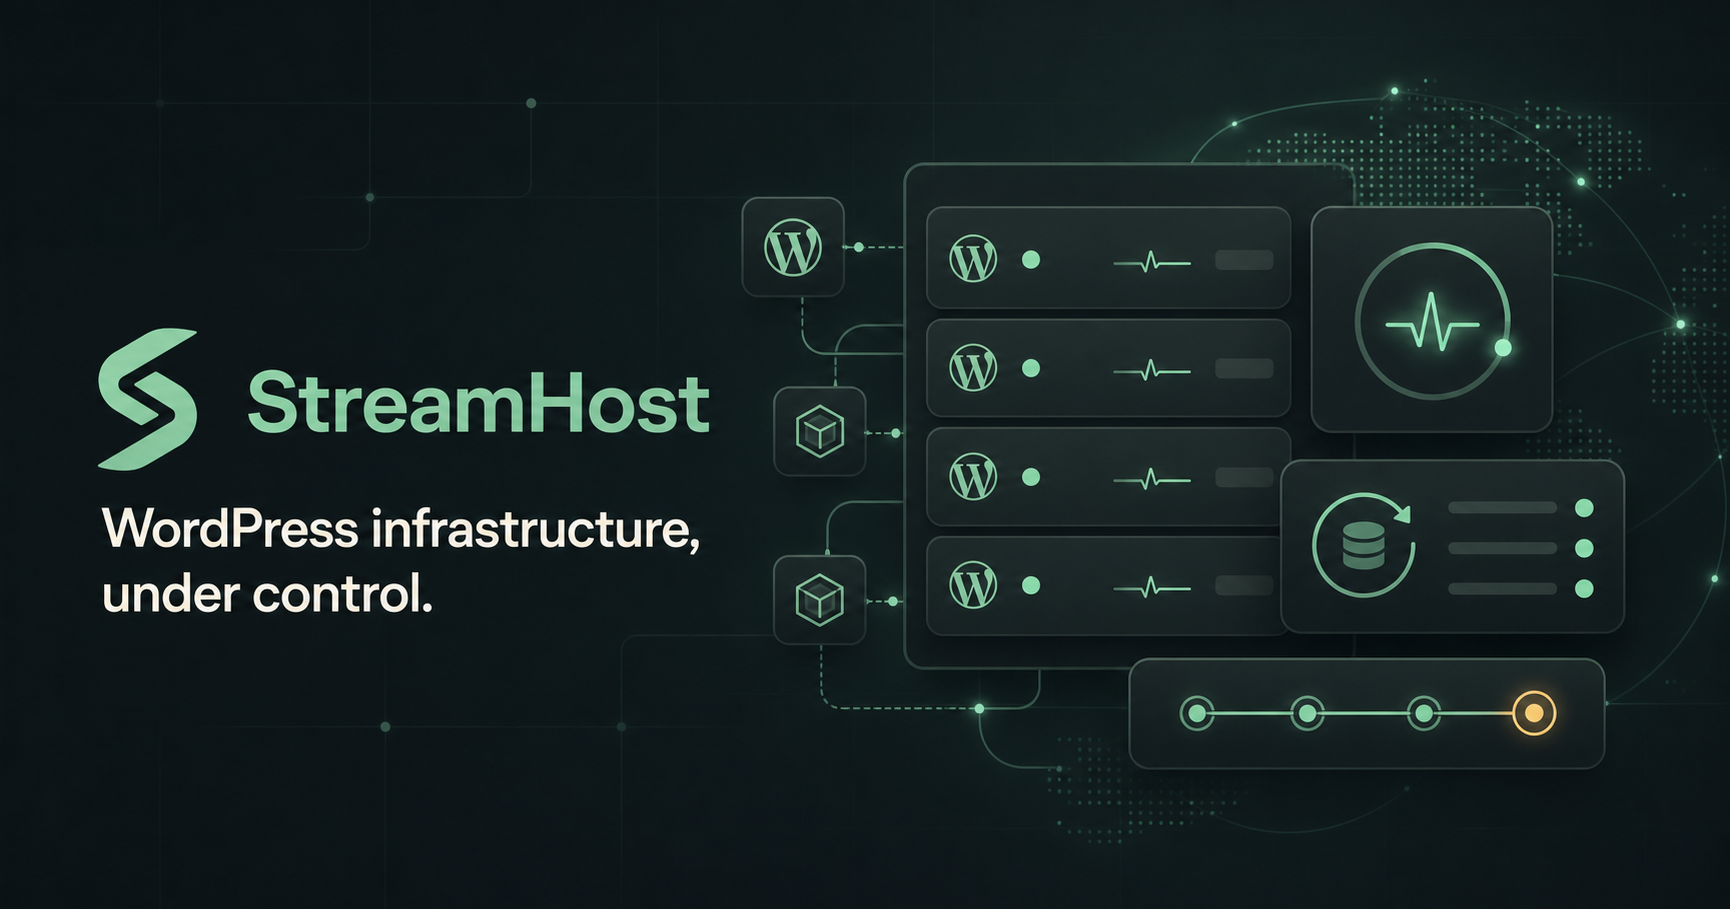
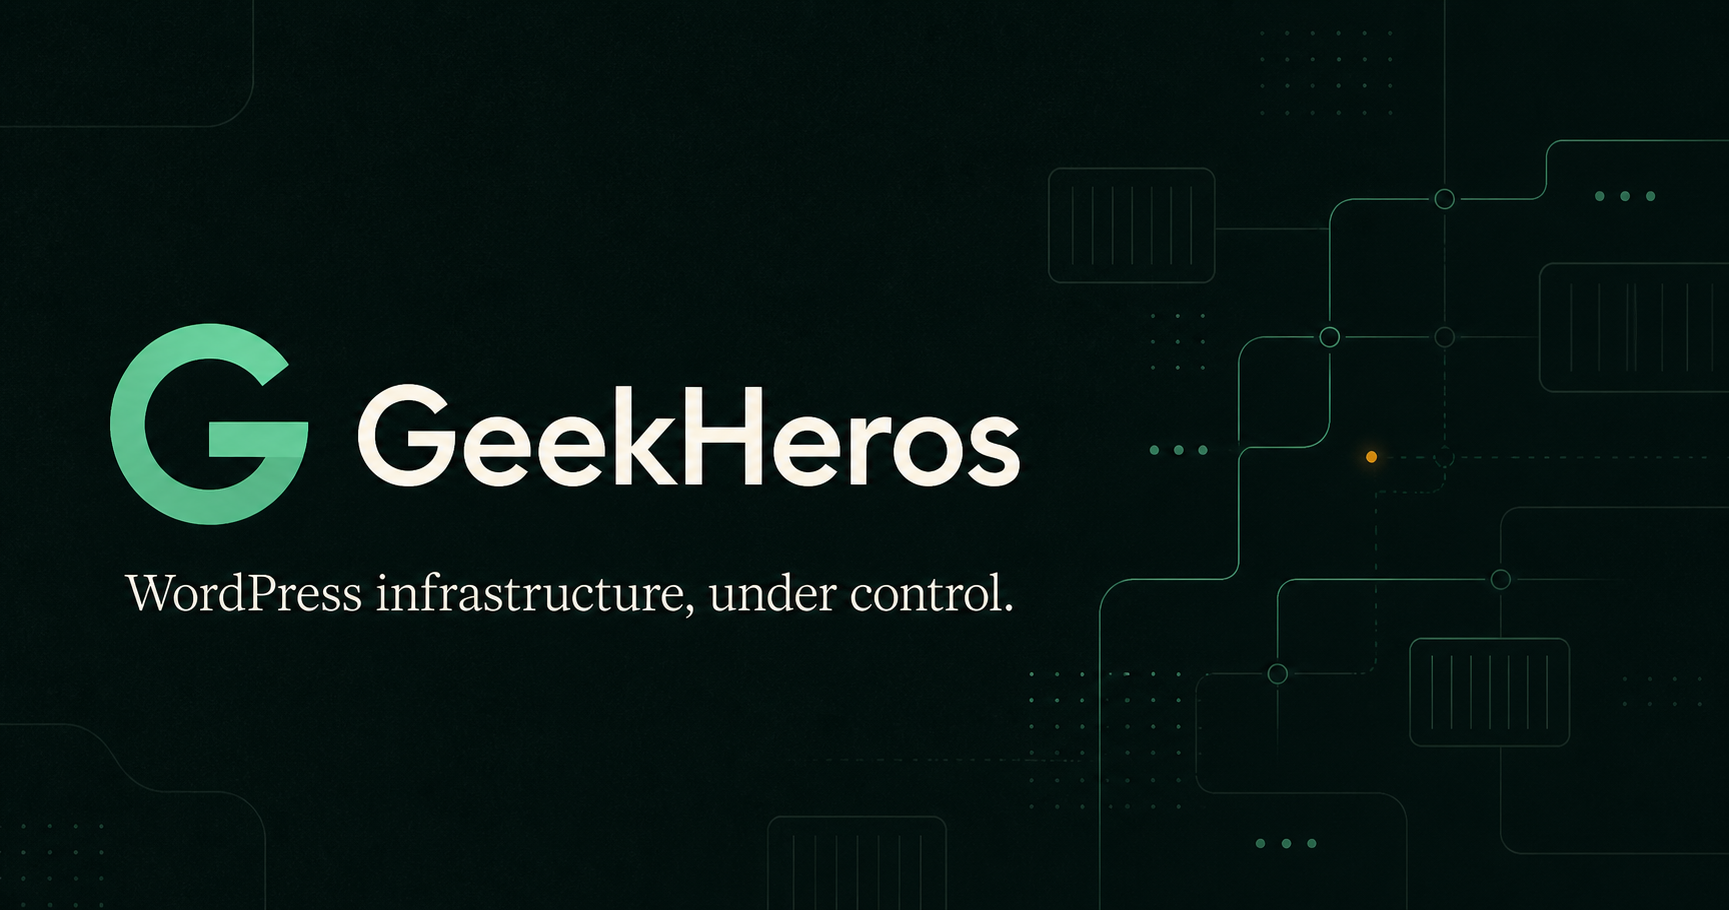
Rebrand control plane as GeekHeros

diff --git a/app/page.tsx b/app/page.tsx
@@ -105,9 +105,9 @@ export default function Home() {
   return (
     <main className="app-shell">
       <aside className="sidebar">
-        <button className="brand" onClick={() => navigate('Overview')}><span className="brand-mark">S</span><span>StreamHost</span></button>
+        <button className="brand" onClick={() => navigate('Overview')}><span className="brand-mark">G</span><span>GeekHeros</span></button>
         <button className="workspace-switcher">
-          <span className="workspace-avatar">SH</span><span className="workspace-copy"><strong>StreamHost Pro</strong><small>Business workspace</small></span><span className="chevron">⌄</span>
+          <span className="workspace-avatar">GH</span><span className="workspace-copy"><strong>GeekHeros</strong><small>Business workspace</small></span><span className="chevron">⌄</span>
         </button>
         <nav aria-label="Primary navigation">
           {nav.map((group) => <div key={group.label}>{group.label && <p className="nav-label">{group.label}</p>}{group.items.map((item) => <button key={item.view} onClick={() => navigate(item.view)} className={`nav-item ${view === item.view && !selectedSite ? 'active' : ''}`}><span>{item.symbol}</span>{item.view}{item.badge && (item.view === 'Updates' ? <b>{item.badge}</b> : <em>{item.badge}</em>)}</button>)}</div>)}
@@ -207,7 +207,7 @@ function ClientsView({ onToast }: { onToast: (message: string) => void }) {
 
 function SettingsView({ onToast }: { onToast: (message: string) => void }) {
   const [slack, setSlack] = useState(true); const [backups, setBackups] = useState(true); const [security, setSecurity] = useState(true);
-  return <><PageHeading eyebrow="WORKSPACE" title="Settings" description="Infrastructure defaults, notifications and team access." actions={<button className="primary-button" onClick={() => onToast('Workspace settings saved.')}><span>✓</span>Save changes</button>} /><div className="settings-layout"><aside className="settings-nav"><button className="selected">Workspace</button><button>Deployment defaults</button><button>Backup policy</button><button>Notifications</button><button>Team & access</button><button>API tokens</button></aside><section className="settings-main"><div className="settings-section"><div><h2>Workspace profile</h2><p>Used throughout reports and operational notifications.</p></div><div className="form-grid"><label>Workspace name<input defaultValue="StreamHost Pro" /></label><label>Business URL<input defaultValue="https://streamhostpro.net" /></label><label className="full-field">Default deployment domain<input defaultValue="sites.streamhostpro.net" /></label></div></div><div className="settings-section"><div><h2>Operational defaults</h2><p>Applied to newly deployed sites.</p></div><div className="setting-toggle"><span><strong>Encrypted scheduled backups</strong><small>Daily backup to configured S3-compatible storage.</small></span><button className={`switch ${backups ? 'on' : ''}`} onClick={() => setBackups(!backups)}><i /></button></div><div className="setting-toggle"><span><strong>Automated security scans</strong><small>Check inventory and file integrity every 12 hours.</small></span><button className={`switch ${security ? 'on' : ''}`} onClick={() => setSecurity(!security)}><i /></button></div><div className="setting-toggle"><span><strong>Slack operation alerts</strong><small>Send failures and recoveries to the operations channel.</small></span><button className={`switch ${slack ? 'on' : ''}`} onClick={() => setSlack(!slack)}><i /></button></div></div></section></div></>;
+  return <><PageHeading eyebrow="WORKSPACE" title="Settings" description="Infrastructure defaults, notifications and team access." actions={<button className="primary-button" onClick={() => onToast('Workspace settings saved.')}><span>✓</span>Save changes</button>} /><div className="settings-layout"><aside className="settings-nav"><button className="selected">Workspace</button><button>Deployment defaults</button><button>Backup policy</button><button>Notifications</button><button>Team & access</button><button>API tokens</button></aside><section className="settings-main"><div className="settings-section"><div><h2>Workspace profile</h2><p>Used throughout reports and operational notifications.</p></div><div className="form-grid"><label>Workspace name<input defaultValue="GeekHeros" /></label><label>Business URL<input defaultValue="https://geekheros.com" /></label><label className="full-field">Default deployment domain<input defaultValue="sites.geekheros.com" /></label></div></div><div className="settings-section"><div><h2>Operational defaults</h2><p>Applied to newly deployed sites.</p></div><div className="setting-toggle"><span><strong>Encrypted scheduled backups</strong><small>Daily backup to configured S3-compatible storage.</small></span><button className={`switch ${backups ? 'on' : ''}`} onClick={() => setBackups(!backups)}><i /></button></div><div className="setting-toggle"><span><strong>Automated security scans</strong><small>Check inventory and file integrity every 12 hours.</small></span><button className={`switch ${security ? 'on' : ''}`} onClick={() => setSecurity(!security)}><i /></button></div><div className="setting-toggle"><span><strong>Slack operation alerts</strong><small>Send failures and recoveries to the operations channel.</small></span><button className={`switch ${slack ? 'on' : ''}`} onClick={() => setSlack(!slack)}><i /></button></div></div></section></div></>;
 }
 
 function SiteWorkspace({ site, activeTab, onTab, onBack, onOperation, onToast, onDomain }: { site: Site; activeTab: string; onTab: (tab: string) => void; onBack: () => void; onOperation: (site: Site, type: string, message: string) => void; onToast: (message: string) => void; onDomain: () => void }) {
@@ -219,7 +219,7 @@ function SiteOverview({ site, onTab }: { site: Site; onTab: (tab: string) => voi
 
 function SiteWordPress({ site, onToast }: { site: Site; onToast: (message: string) => void }) { const packages = [['Advanced Custom Fields', 'Plugin', 'Active', '6.8.4', '6.8.8'], ['Rank Math SEO', 'Plugin', 'Active', '1.0.272', '1.0.277'], ['WPCode Lite', 'Plugin', 'Active', '2.3.8', 'Current'], ['Twenty Twenty-Five', 'Theme', 'Inactive', '1.3', 'Current']]; return <section className="content-card table-card"><div className="card-title table-title"><div><small>WORDPRESS {site.wp}</small><h2>Plugins & themes</h2></div><div className="heading-actions"><button className="secondary-button" onClick={() => onToast('Package installer opened.')}>Install package</button><button className="primary-button" onClick={() => onToast('Safe update queued with a restore point.')}><span>↻</span>Update all</button></div></div><div className="wp-table"><div className="wp-row wp-head"><span>Package</span><span>Type</span><span>Status</span><span>Installed</span><span>Available</span><span /></div>{packages.map((row) => <div className="wp-row" key={row[0]}><strong>{row[0]}</strong><span>{row[1]}</span><span className={row[2] === 'Active' ? 'verified' : ''}>{row[2]}</span><span>{row[3]}</span><span className={row[4] === 'Current' ? 'verified' : 'needs-update'}>{row[4]}</span><button>•••</button></div>)}</div></section>; }
 
-function SiteDomains({ site, onDomain }: { site: Site; onDomain: () => void }) { return <section className="content-card table-card"><div className="card-title table-title"><div><small>EDGE ROUTING</small><h2>Connected domains</h2></div><button className="primary-button" onClick={onDomain}><span>＋</span>Connect domain</button></div><div className="domain-row"><span className="domain-icon">◎</span><span><strong>{site.domain}</strong><small>Primary domain</small></span><span><strong>A record verified</strong><small>Routing active</small></span><span className="verified">✓ SSL valid</span><button>•••</button></div><div className="dns-note"><span>i</span><p><strong>Point domains to your edge address.</strong> StreamHost verifies DNS ownership before routing traffic and issuing a certificate.</p></div></section>; }
+function SiteDomains({ site, onDomain }: { site: Site; onDomain: () => void }) { return <section className="content-card table-card"><div className="card-title table-title"><div><small>EDGE ROUTING</small><h2>Connected domains</h2></div><button className="primary-button" onClick={onDomain}><span>＋</span>Connect domain</button></div><div className="domain-row"><span className="domain-icon">◎</span><span><strong>{site.domain}</strong><small>Primary domain</small></span><span><strong>A record verified</strong><small>Routing active</small></span><span className="verified">✓ SSL valid</span><button>•••</button></div><div className="dns-note"><span>i</span><p><strong>Point domains to your edge address.</strong> GeekHeros verifies DNS ownership before routing traffic and issuing a certificate.</p></div></section>; }
 
 function SiteDeveloper({ onToast }: { onToast: (message: string) => void }) { const tools = [['SFTP & SSH', 'Secure file and command-line access', '↗'], ['Database manager', 'Open an isolated Adminer session', '▤'], ['Log viewer', 'Stream NGINX, PHP and WordPress logs', '≡'], ['WP-CLI', 'Run audited WordPress commands', '>_'], ['Code editor', 'Edit site files in a scoped browser session', '{}'], ['Web server', 'PHP version, service controls and permissions', '⚙']]; return <div className="tool-grid">{tools.map((tool) => <button className="tool-card" key={tool[0]} onClick={() => onToast(`${tool[0]} access session prepared.`)}><span>{tool[2]}</span><strong>{tool[0]}</strong><small>{tool[1]}</small><em>Open tool →</em></button>)}</div>; }
 
@@ -229,9 +229,9 @@ function SiteMonitoring() { return <><div className="metric-grid"><MetricCard ic
 
 function SiteActivity() { return <section className="content-card"><div className="card-title"><div><small>IMMUTABLE EVENT LOG</small><h2>Operation activity</h2></div><label className="table-search"><span>⌕</span><input placeholder="Search activity" /></label></div><div className="timeline">{[...activity, ['Security scan completed', 'No vulnerabilities found', '2 days ago', 'green']].map(([title, detail, time, tone]) => <div key={title + time}><span className={`activity-dot ${tone}`} /><span><strong>{title}</strong><small>{detail}</small></span><time>{time}</time></div>)}</div></section>; }
 
-function SiteModal({ kind, submitting, onClose, onSubmit }: { kind: 'launch' | 'connect'; submitting: boolean; onClose: () => void; onSubmit: (event: FormEvent<HTMLFormElement>) => void }) { const external = kind === 'connect'; return <div className="modal-backdrop" onMouseDown={(event) => { if (event.currentTarget === event.target) onClose(); }}><section className="modal" role="dialog" aria-modal="true" aria-labelledby="site-modal-title"><div className="modal-head"><div><p className="eyebrow">{external ? 'EXTERNAL WORDPRESS' : 'NEW DEPLOYMENT'}</p><h2 id="site-modal-title">{external ? 'Connect an existing site' : 'Launch a WordPress site'}</h2><p>{external ? 'Install the connector to manage updates and care services.' : 'Provision an isolated, production-ready WordPress pod.'}</p></div><button onClick={onClose} aria-label="Close">×</button></div><form onSubmit={onSubmit}><input type="hidden" name="kind" value={external ? 'external' : 'hosted'} /><div className="form-grid"><label>Site name<input name="name" required placeholder="Acme Marketing" autoFocus /></label><label>Domain<input name="domain" required placeholder="acme.example.com" /></label>{!external && <><label>Region<select name="region" defaultValue="US West"><option>US West</option><option>US Central</option><option>US East</option><option>Canada</option><option>Germany</option><option>Australia</option></select></label><label>Pod profile<select name="pod" defaultValue="Standard"><option>Micro</option><option>Standard</option><option>Performance</option><option>Power</option></select></label></>}{external && <div className="connector-box full-field"><span>◇</span><div><strong>StreamHost Connector</strong><p>A signed management agent will inventory this site after it is connected.</p></div><em>platform.zip</em></div>}</div><div className="modal-summary"><span>✓</span><p><strong>{external ? 'No hosting changes' : 'Includes automated TLS and daily backups'}</strong><small>{external ? 'The current host and domain remain unchanged.' : 'You can resize or move the site later.'}</small></p></div><div className="modal-actions"><button type="button" className="secondary-button" onClick={onClose}>Cancel</button><button className="primary-button" disabled={submitting}>{submitting ? 'Adding…' : external ? 'Connect site' : 'Launch site'}</button></div></form></section></div>; }
+function SiteModal({ kind, submitting, onClose, onSubmit }: { kind: 'launch' | 'connect'; submitting: boolean; onClose: () => void; onSubmit: (event: FormEvent<HTMLFormElement>) => void }) { const external = kind === 'connect'; return <div className="modal-backdrop" onMouseDown={(event) => { if (event.currentTarget === event.target) onClose(); }}><section className="modal" role="dialog" aria-modal="true" aria-labelledby="site-modal-title"><div className="modal-head"><div><p className="eyebrow">{external ? 'EXTERNAL WORDPRESS' : 'NEW DEPLOYMENT'}</p><h2 id="site-modal-title">{external ? 'Connect an existing site' : 'Launch a WordPress site'}</h2><p>{external ? 'Install the connector to manage updates and care services.' : 'Provision an isolated, production-ready WordPress pod.'}</p></div><button onClick={onClose} aria-label="Close">×</button></div><form onSubmit={onSubmit}><input type="hidden" name="kind" value={external ? 'external' : 'hosted'} /><div className="form-grid"><label>Site name<input name="name" required placeholder="Acme Marketing" autoFocus /></label><label>Domain<input name="domain" required placeholder="acme.example.com" /></label>{!external && <><label>Region<select name="region" defaultValue="US West"><option>US West</option><option>US Central</option><option>US East</option><option>Canada</option><option>Germany</option><option>Australia</option></select></label><label>Pod profile<select name="pod" defaultValue="Standard"><option>Micro</option><option>Standard</option><option>Performance</option><option>Power</option></select></label></>}{external && <div className="connector-box full-field"><span>◇</span><div><strong>GeekHeros Connector</strong><p>A signed management agent will inventory this site after it is connected.</p></div><em>platform.zip</em></div>}</div><div className="modal-summary"><span>✓</span><p><strong>{external ? 'No hosting changes' : 'Includes automated TLS and daily backups'}</strong><small>{external ? 'The current host and domain remain unchanged.' : 'You can resize or move the site later.'}</small></p></div><div className="modal-actions"><button type="button" className="secondary-button" onClick={onClose}>Cancel</button><button className="primary-button" disabled={submitting}>{submitting ? 'Adding…' : external ? 'Connect site' : 'Launch site'}</button></div></form></section></div>; }
 
-function DomainModal({ onClose, onSave }: { onClose: () => void; onSave: () => void }) { return <div className="modal-backdrop"><section className="modal small-modal" role="dialog" aria-modal="true"><div className="modal-head"><div><p className="eyebrow">EDGE ROUTING</p><h2>Connect domain</h2><p>Point the domain at your node, then StreamHost will verify and issue SSL.</p></div><button onClick={onClose}>×</button></div><div className="form-grid"><label className="full-field">Domain name<input placeholder="www.example.com" autoFocus /></label></div><div className="dns-target"><span>A</span><strong>@</strong><code>203.0.113.42</code><button>Copy</button></div><div className="modal-actions"><button className="secondary-button" onClick={onClose}>Cancel</button><button className="primary-button" onClick={onSave}>Verify domain</button></div></section></div>; }
+function DomainModal({ onClose, onSave }: { onClose: () => void; onSave: () => void }) { return <div className="modal-backdrop"><section className="modal small-modal" role="dialog" aria-modal="true"><div className="modal-head"><div><p className="eyebrow">EDGE ROUTING</p><h2>Connect domain</h2><p>Point the domain at your node, then GeekHeros will verify and issue SSL.</p></div><button onClick={onClose}>×</button></div><div className="form-grid"><label className="full-field">Domain name<input placeholder="www.example.com" autoFocus /></label></div><div className="dns-target"><span>A</span><strong>@</strong><code>203.0.113.42</code><button>Copy</button></div><div className="modal-actions"><button className="secondary-button" onClick={onClose}>Cancel</button><button className="primary-button" onClick={onSave}>Verify domain</button></div></section></div>; }
 
 function CommandPalette({ onClose, onNavigate }: { onClose: () => void; onNavigate: (view: View) => void }) { const commands: Array<[View, string, string]> = [['Sites', 'Open site fleet', '▦'], ['Updates', 'Review WordPress updates', '↻'], ['Backups', 'Browse recovery points', '◫'], ['Monitoring', 'Open uptime monitoring', '⌁'], ['Security', 'Open security center', '♢'], ['Clients', 'Browse clients', '◎']]; return <div className="modal-backdrop command-backdrop" onMouseDown={(event) => { if (event.currentTarget === event.target) onClose(); }}><section className="command-palette" role="dialog" aria-modal="true"><label><span>⌕</span><input placeholder="Search sites, clients, actions…" autoFocus /><kbd>ESC</kbd></label><small>QUICK NAVIGATION</small>{commands.map(([view, label, symbol]) => <button key={view} onClick={() => onNavigate(view)}><span>{symbol}</span><strong>{label}</strong><kbd>↵</kbd></button>)}</section></div>; }
 

diff --git a/app/layout.tsx b/app/layout.tsx
@@ -18,18 +18,18 @@ const metadataBase = new URL(
 
 export const metadata: Metadata = {
   metadataBase,
-  title: 'StreamHost Control Plane',
+  title: 'GeekHeros Control Plane',
   description:
     'Deploy, monitor, update and protect every WordPress site from one secure control plane.',
   openGraph: {
-    title: 'StreamHost Control Plane',
+    title: 'GeekHeros Control Plane',
     description: 'WordPress infrastructure, under control.',
     type: 'website',
-    images: [{ url: '/og.png', width: 1730, height: 909, alt: 'StreamHost WordPress control plane' }],
+    images: [{ url: '/og.png', width: 1729, height: 910, alt: 'GeekHeros WordPress control plane' }],
   },
   twitter: {
     card: 'summary_large_image',
-    title: 'StreamHost Control Plane',
+    title: 'GeekHeros Control Plane',
     description: 'WordPress infrastructure, under control.',
     images: ['/og.png'],
   },
